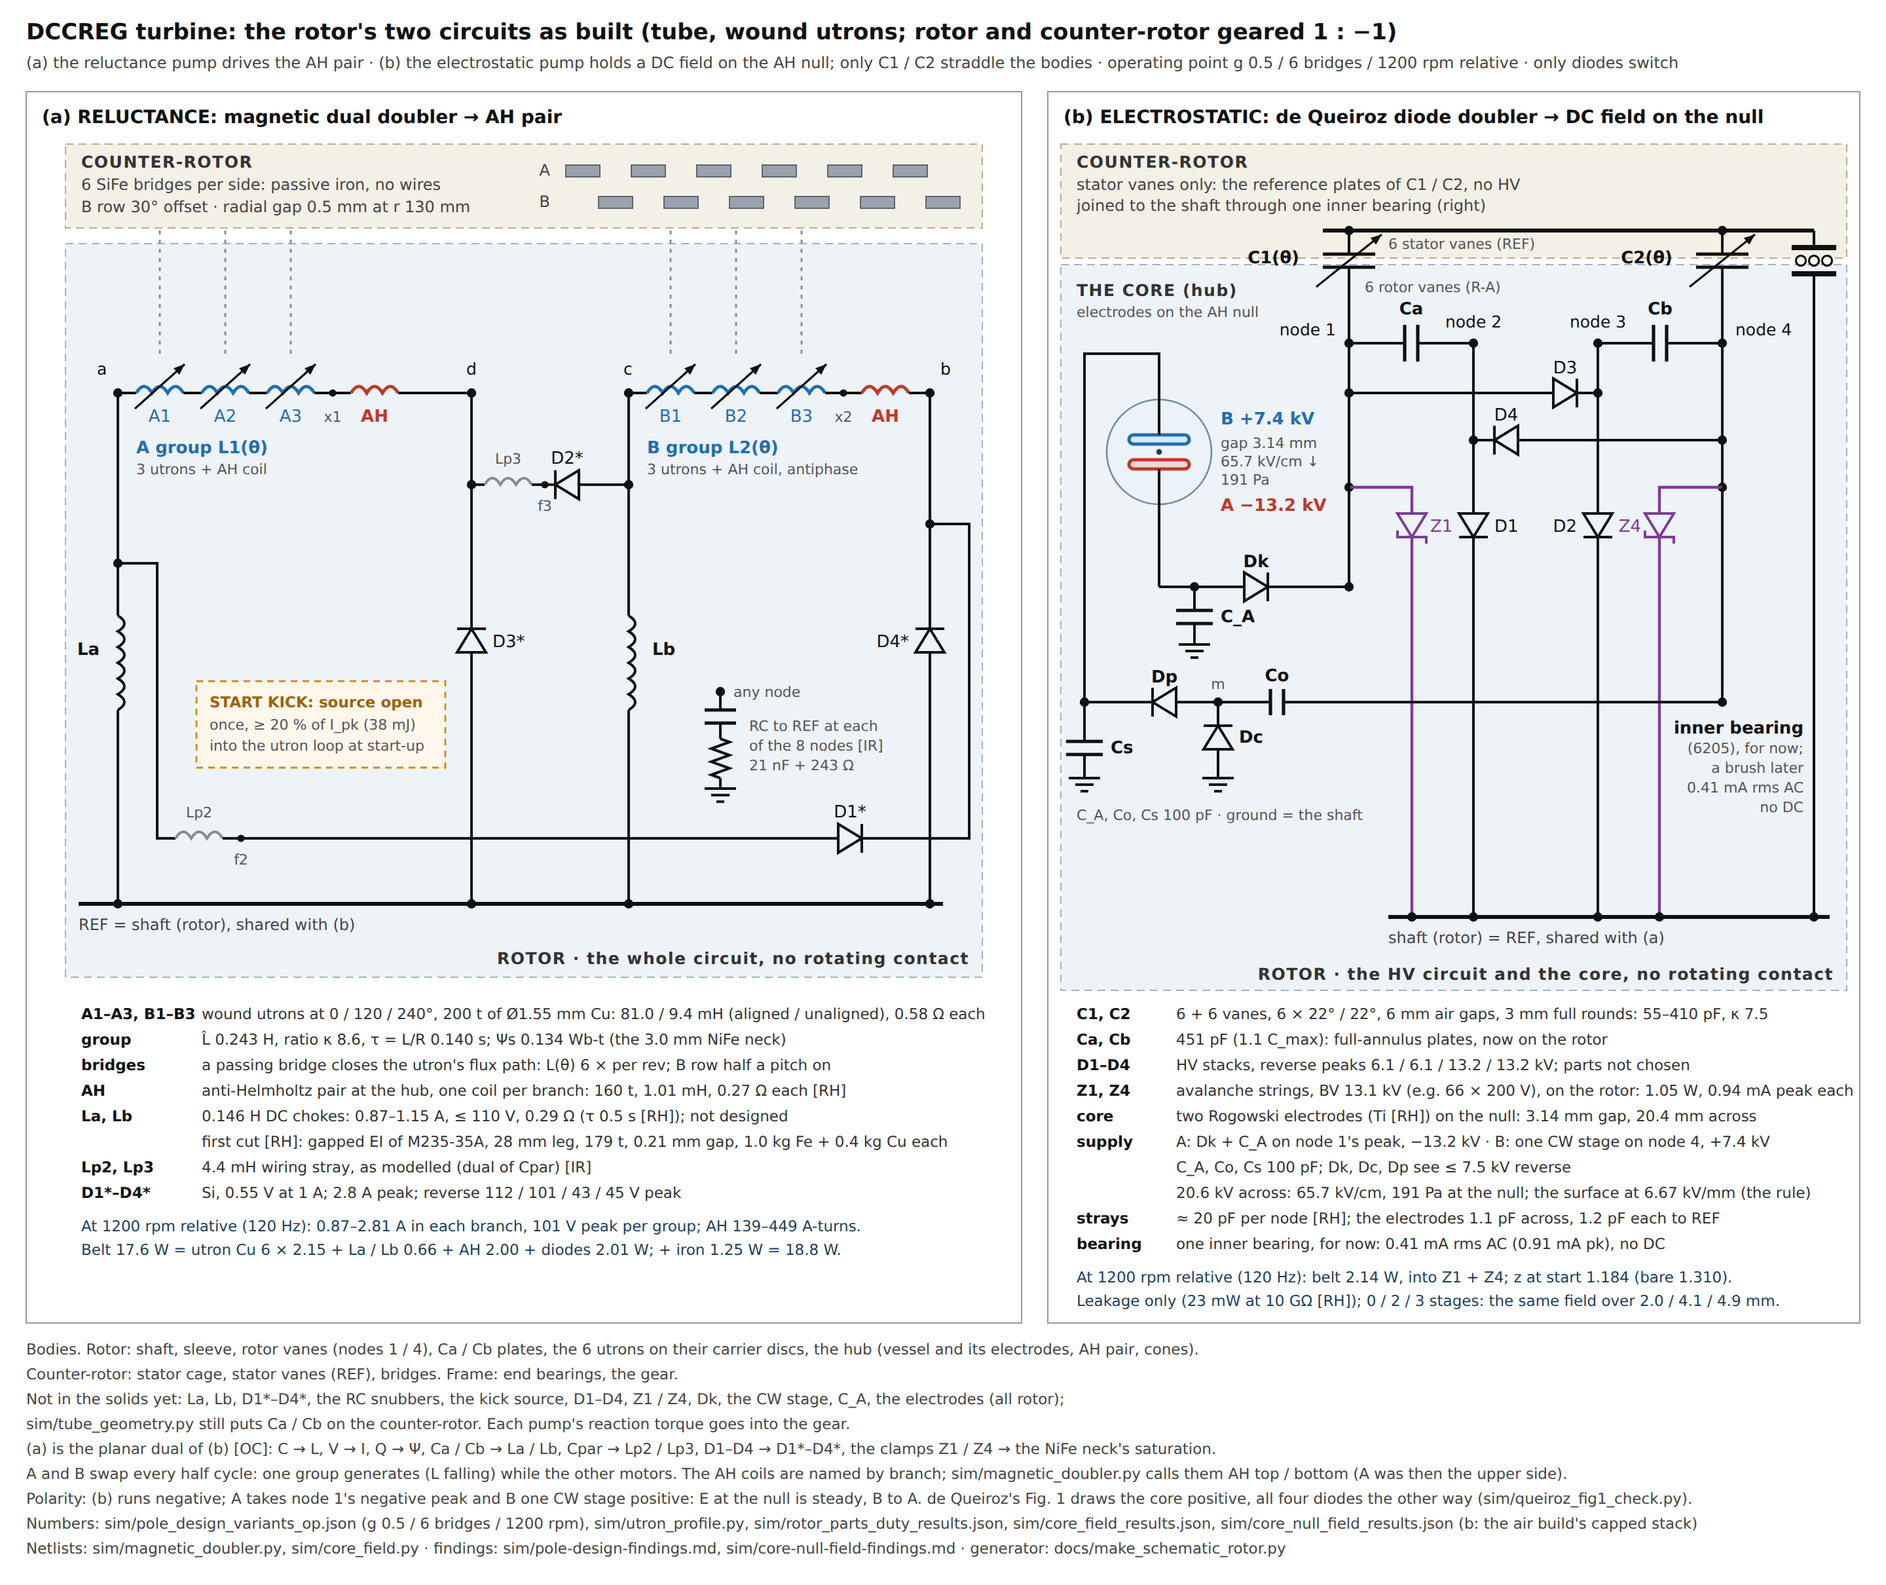
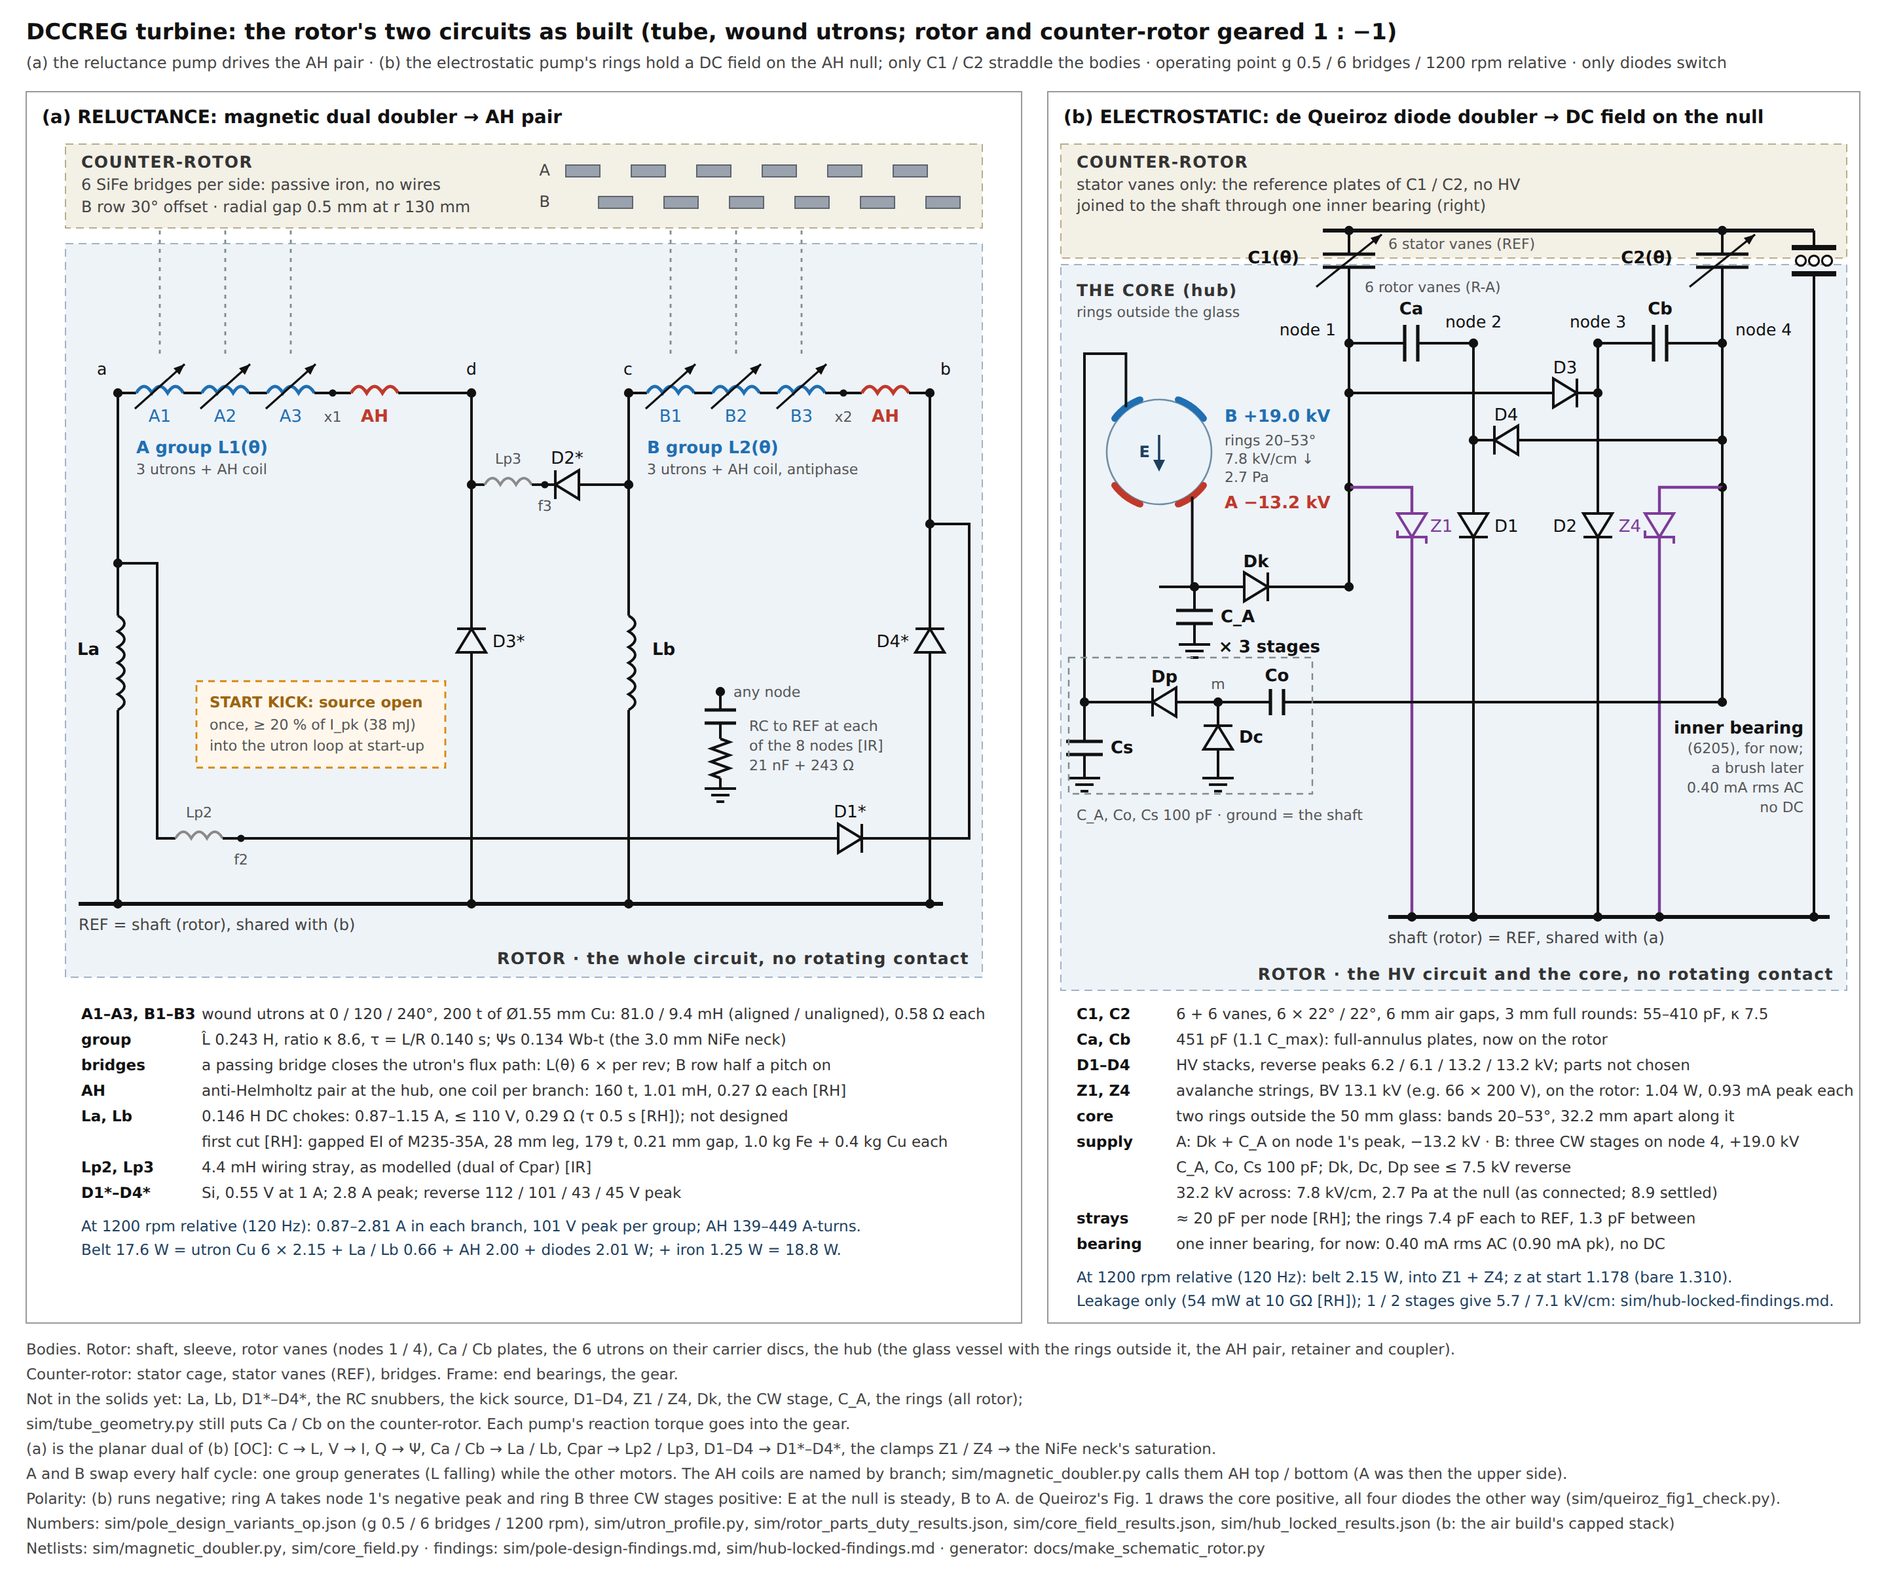
docs(schematic): panel (b) with the rings outside the glass
The core block draws the glass vessel with ring B (upper, +19.0 kV) and
ring A (lower, -13.2 kV) on its outline, Dk + C_A on node 1, and the
Cockcroft-Walton stage on node 4 marked x 3. The table and notes follow
the dc3 run and sim/hub_locked_results.json.

Claude-Session: https://claude.ai/code/session_019kWq1ZtzZgffamNAmjzqBU

diff --git a/docs/make_schematic_rotor.py b/docs/make_schematic_rotor.py
@@ -5,19 +5,21 @@
     counter-rotor's passive bridges make L(theta); no wire crosses between the bodies.
 (b) ELECTROSTATIC: the de Queiroz diode doubler with its HV side on the rotor (sim/core_field.py netlist; the air
     build's capped stack) -- C1 / C2 between the rotor vanes (nodes 1 / 4) and the counter-rotor's stator vanes, which
-    are the reference; Ca / Cb, D1-D4 and the clamps Z1 / Z4 on the rotor; two Rogowski electrodes in the vacuum on the
-    AH null, A peak-charged from node 1 through Dk and B on one Cockcroft-Walton stage on node 4, so the null sees a
-    steady field (sim/core-null-field-findings.md); the stator vanes joined to the shaft through one inner bearing for
-    now (a brush later).
+    are the reference; Ca / Cb, D1-D4 and the clamps Z1 / Z4 on the rotor; two rings outside the hub's glass vessel
+    (the designer's choice; presets/hub-locked.json), ring A peak-charged from node 1 through Dk and ring B on three
+    Cockcroft-Walton stages on node 4, so the AH null sees a steady field (sim/hub-locked-findings.md); the stator vanes
+    joined to the shaft through one inner bearing for now (a brush later).
 Values: sim/pole_design_variants_op.json (the pick), sim/utron_profile.py, sim/rotor_parts_duty_results.json (La / Lb,
-D1*-D4* at the pick), sim/core_field_results.json (the electrostatic pump, the supply and the link: 'dc1 0.1nF'),
-sim/core_null_field_results.json (the electrodes).
+D1*-D4* at the pick), sim/core_field_results.json (the electrostatic pump, the supply and the link: 'dc3 0.1nF'),
+sim/hub_locked_results.json (the rings).
 Usage: python3 docs/make_schematic_rotor.py   (the PNG needs playwright + chromium)
 """
 import json
 import math
 import os
 import sys
+
+import numpy as np
 
 HERE = os.path.dirname(os.path.abspath(__file__))
 ROOT = os.path.dirname(HERE)
@@ -26,7 +28,7 @@ import magnetic_doubler as MDm     # noqa: E402  (the dual's constants: AH rewin
 import utron_profile as U          # noqa: E402
 
 PICK = "g 0.5 / 6 bridges / 1200 rpm"
-SUPPLY = "dc1 0.1nF"                               # the null's supply of record (sim/core-null-field-findings.md)
+SUPPLY = "dc3 0.1nF"                               # the rings' supply of record (sim/hub-locked-findings.md)
 LA_RATIO, TAU_FIXED, AH_KEY = 0.6, 0.5, "r160"     # as sim/pole_design.size_op runs the pick
 OUT = os.path.join(HERE, "schematic-rotor-circuits")
 o = []
@@ -137,9 +139,9 @@ def numbers():
     duty = json.load(open(os.path.join(ROOT, "sim", "rotor_parts_duty_results.json")))
     cf = json.load(open(os.path.join(ROOT, "sim", "core_field_results.json")))
     cfr = {r["name"]: r for r in cf["rows"]}
-    nf = json.load(open(os.path.join(ROOT, "sim", "core_null_field_results.json")))
+    hl = json.load(open(os.path.join(ROOT, "sim", "hub_locked_results.json")))
     return dict(op=op, b=b, sp=sp, Lg=Lg, ah=ah, F=F, csn=csn, rsn=rsn, la=LA_RATIO * Lg, lp=MDm.R_PAR * Lg, duty=duty,
-                cf=cf, cfr=cfr, nf=nf, dc=cfr[SUPPLY], dc_free=cfr["free " + SUPPLY], null=nf["design"]["dc1"])
+                cf=cf, cfr=cfr, hl=hl, dc=cfr[SUPPLY], dc_free=cfr["free " + SUPPLY], ring=hl["record"])
 
 
 # ------------------------------------------------------------------------------------------------ (a) reluctance
@@ -251,15 +253,23 @@ def panel_a_table(ox, y, N):
 
 
 # ------------------------------------------------------------------------------------------------ (b) electrostatic
-def null_core(xc, yc, rv=40, hw=23, g=12, t=7):
-    """the vacuum vessel with the two electrodes on the AH null: B (upper) and A (lower), not to scale; the field
-    points down, from B (+) to A (-). Returns the vessel's top and bottom."""
+def ring_core(xc, yc, th0, th1, rv=40):
+    """the glass vessel with the two rings outside it: B on the upper hemisphere, A on the lower, each a band from th0
+    to th1 (deg from the axis), drawn on both sides of the section; E at the null points down, from B (+) to A (-).
+    Returns the points where B's and A's leads leave (the upper left and lower right bands' middles)."""
     o.append(f'<circle cx="{xc:.1f}" cy="{yc:.1f}" r="{rv:.1f}" class="glass"/>')
-    for y0, cl in ((yc - g / 2 - t, "cone_b"), (yc + g / 2, "cone_a")):
-        o.append(f'<rect x="{xc - hw:.1f}" y="{y0:.1f}" width="{2 * hw:.1f}" height="{t:.1f}" rx="3.5" class="{cl}"/>')
-    ln(xc, yc - g / 2 - t, xc, yc - rv, "w"); ln(xc, yc + g / 2 + t, xc, yc + rv, "w")          # the stems
-    o.append(f'<circle cx="{xc:.1f}" cy="{yc:.1f}" r="2.2" fill="#1d3f5e"/>')                   # the null
-    return yc - rv, yc + rv
+    for top, col in ((1, "#1f6fb2"), (-1, "#c0392b")):
+        for side in (-1, 1):
+            pts = [(xc + side * (rv + 2.5) * math.sin(math.radians(t)), yc - top * (rv + 2.5) * math.cos(math.radians(t)))
+                   for t in np.linspace(th0, th1, 24)]
+            o.append('<polyline points="' + " ".join(f"{x:.1f},{y:.1f}" for x, y in pts) +
+                     f'" fill="none" stroke="{col}" stroke-width="5" stroke-linecap="round"/>')
+    ln(xc, yc - 13, xc, yc + 6, "ef")
+    o.append(f'<polygon points="{xc:.1f},{yc + 15:.1f} {xc - 4.5:.1f},{yc + 6:.1f} {xc + 4.5:.1f},{yc + 6:.1f}" fill="#1d3f5e"/>')
+    tx(xc - 7, yc + 4, "E", "te", "end")
+    tm = math.radians(0.5 * (th0 + th1))
+    return ((xc - (rv + 2.5) * math.sin(tm), yc - (rv + 2.5) * math.cos(tm)),
+            (xc + (rv + 2.5) * math.sin(tm), yc + (rv + 2.5) * math.cos(tm)))
 
 
 def panel_b(ox, N):
@@ -304,22 +314,22 @@ def panel_b(ox, N):
     for x, xz, nm in ((x1, x1z, "Z1"), (x4, x4z, "Z4")):
         dot(x, y_z); pl([(x, y_z), (xz, y_z), (xz, 392)], "lim"); diode(xz, 392, "down", "#7d3c98", zener=True)
         ln(xz, 410, xz, y_sh, "lim"); tx(xz + (14 if x == x1 else -14), 406, nm, "tl", "start" if x == x1 else "end")
-    # the core: two electrodes in the vacuum on the AH null. A on node 1's negative peak (Dk, C_A); B on one
-    # Cockcroft-Walton stage on node 4's swing (Co, Dc, Dp, Cs); all storage 100 pF to the shaft
-    dc, nl = N["dc"], N["null"]
+    # the core: two rings outside the glass. A on node 1's negative peak (Dk, C_A); B on three Cockcroft-Walton stages
+    # on node 4's swing (Co, Dc, Dp, Cs each, drawn once); all storage 100 pF to the shaft
+    dc, nl = N["dc"], N["ring"]
     xk, yc, y_cw, xl = ox + 105, 345, 536, ox + 48
     ln(x1, y_n, x1, y_k); dot(x1, y_k)
     ln(x4, y_z, x4, y_cw); dot(x4, y_cw)
-    yt, ybm = null_core(xk, yc)
-    # A: the stem down to the Dk lead; C_A to the shaft
-    ln(xk, ybm, xk, y_k)
+    (xbl, ybl), (xar, yar) = ring_core(xk, yc, nl["theta_p"], nl["theta_e"])
+    # A: from the lower ring down to the Dk lead; C_A to the shaft
+    pl([(xar, yar), (xar, y_k), (xk, y_k)])
     ln(xk, y_k, ox + 170, y_k); diode(ox + 170, y_k, "right"); ln(ox + 188, y_k, x1, y_k)
     tx(ox + 179, y_k - 15, "Dk", "t", "middle", 'font-weight="bold"')
     dot(ox + 132, y_k); ln(ox + 132, y_k, ox + 132, y_k + 18); cap_v(ox + 132, y_k + 18, 14)
     ln(ox + 132, y_k + 28, ox + 132, y_k + 44); ground(ox + 132, y_k + 44)
     tx(ox + 152, y_k + 27, "C_A", "t", "start", 'font-weight="bold"')
-    # B: the stem up and round to the multiplier's output; Cs to the shaft
-    pl([(xk, yt), (xk, 270), (xl, 270), (xl, y_cw), (ox + 100, y_cw)])
+    # B: from the upper ring up and round to the multiplier's output; Cs to the shaft
+    pl([(xbl, ybl), (xbl, 270), (xl, 270), (xl, y_cw), (ox + 100, y_cw)])
     dot(xl, y_cw); ln(xl, y_cw, xl, y_cw + 30); cap_v(xl, y_cw + 30, 14); ln(xl, y_cw + 40, xl, y_cw + 58)
     ground(xl, y_cw + 58)
     tx(xl + 20, y_cw + 39, "Cs", "t", "start", 'font-weight="bold"')
@@ -331,14 +341,17 @@ def panel_b(ox, N):
     tx(ox + 166, y_cw + 31, "Dc", "t", "start", 'font-weight="bold"')
     ln(ox + 150, y_cw, ox + 190, y_cw); cap_h(ox + 190, y_cw, 10); ln(ox + 200, y_cw, x4, y_cw)   # Co: node 4 -> m
     tx(ox + 195, y_cw - 16, "Co", "t", "middle", 'font-weight="bold"')
+    o.append(f'<rect x="{ox + 36:.1f}" y="{y_cw - 34:.1f}" width="{ox + 222 - (ox + 36):.1f}" height="104" '
+             'fill="none" stroke="#7f8c8d" stroke-width="1.2" stroke-dasharray="5 4"/>')
+    tx(ox + 228, y_cw - 38, "× 3 stages", "t", "end", 'font-weight="bold"')
     tx(ox + 42, y_cw + 90, "C_A, Co, Cs 100 pF · ground = the shaft", "ms", "start")
-    tx(xk + 47, yc - 21, f"B +{nl['V_B_kV']:.1f} kV", "tu", "start", 'font-weight="bold"')
-    tx(xk + 47, yc - 3, f"gap {nl['g_min_mm']:.2f} mm", "ms")
-    tx(xk + 47, yc + 11, f"{nl['E0_kV_cm']:.1f} kV/cm ↓", "ms")
-    tx(xk + 47, yc + 25, f"{nl['p0_Pa']:.0f} Pa", "ms")
-    tx(xk + 47, yc + 45, f"A {kv(nl['V_A_kV'])} kV", "ta", "start", 'font-weight="bold"')
+    tx(xk + 50, yc - 23, f"B +{nl['V_B_kV']:.1f} kV", "tu", "start", 'font-weight="bold"')
+    tx(xk + 50, yc - 5, f"rings {nl['theta_p']:.0f}–{nl['theta_e']:.0f}°", "ms")
+    tx(xk + 50, yc + 9, f"{nl['E_dc_kV_cm']:.1f} kV/cm ↓", "ms")
+    tx(xk + 50, yc + 23, f"{nl['p_dc_Pa']:.1f} Pa", "ms")
+    tx(xk + 50, yc + 43, f"A {kv(nl['V_A_kV'])} kV", "ta", "start", 'font-weight="bold"')
     tx(ox + 42, 226, "THE CORE (hub)", "zh")
-    tx(ox + 42, 242, "electrodes on the AH null", "ms")
+    tx(ox + 42, 242, "rings outside the glass", "ms")
     # the one rotating contact: an inner bearing (outer ring on the counter-rotor, inner ring on the shaft)
     ln(xb, y_s, xb, y_bd - 10)
     ln(xb - 17, y_bd - 10, xb + 17, y_bd - 10, "ring"); ln(xb - 17, y_bd + 10, xb + 17, y_bd + 10, "ring")
@@ -358,7 +371,7 @@ def panel_b(ox, N):
 
 def panel_b_table(ox, y, N):
     d, cf, R = N["cf"]["design"], N["cf"], N["cfr"]
-    fs, nl = N["dc"], N["null"]
+    fs, nl = N["dc"], N["ring"]
     vr = fs["VR_pk_kV"]
     zs = N["duty"]["clamp_string"]
     n_z = math.ceil(d["V_op_kV"] * 1e3 / zs["V_Z"])
@@ -371,24 +384,26 @@ def panel_b_table(ox, y, N):
                   "parts not chosen"),
         ("Z1, Z4", f"avalanche strings, BV {d['V_op_kV']:.1f} kV (e.g. {n_z} × {zs['V_Z']:.0f} V), on the rotor: "
                    f"{fs['Z1']['P_W']:.2f} W, {fs['Z1']['I_pk_mA']:.2f} mA peak each"),
-        ("core", f"two Rogowski electrodes (Ti [RH]) on the null: {nl['g_min_mm']:.2f} mm gap, "
-                 f"{2 * nl['R_max_mm']:.1f} mm across"),
-        ("supply", f"A: Dk + C_A on node 1's peak, {kv(nl['V_A_kV'])} kV · B: one CW stage on node 4, "
+        ("core", f"two rings outside the 50 mm glass: bands {nl['theta_p']:.0f}–{nl['theta_e']:.0f}°, "
+                 f"{nl['gap_mm']:.1f} mm apart along it"),
+        ("supply", f"A: Dk + C_A on node 1's peak, {kv(nl['V_A_kV'])} kV · B: three CW stages on node 4, "
                    f"+{nl['V_B_kV']:.1f} kV"),
-        ("", f"C_A, Co, Cs 100 pF; Dk, Dc, Dp see ≤ {max(vr['Dk'], vr['Dc1'], vr['Dp1']):.1f} kV reverse"),
-        ("", f"{nl['V_gap_kV']:.1f} kV across: {nl['E0_kV_cm']:.1f} kV/cm, {nl['p0_Pa']:.0f} Pa at the null; the "
-             f"surface at {N['nf']['E_op_kV_mm']:.2f} kV/mm (the rule)"),
-        ("strays", f"≈ {cf['CPAR_pF']:.0f} pF per node [RH]; the electrodes {nl['C_gap_pF']:.1f} pF across, "
-                   f"{nl['C_A_ref_pF']:.1f} pF each to REF"),
+        ("", f"C_A, Co, Cs 100 pF; Dk, Dc, Dp see ≤ "
+             f"{max(v for k, v in vr.items() if k[:2] in ('Dk', 'Dc', 'Dp')):.1f} kV reverse"),
+        ("", f"{nl['V_gap_kV']:.1f} kV across: {nl['E_dc_kV_cm']:.1f} kV/cm, {nl['p_dc_Pa']:.1f} Pa at the null "
+             f"(as connected; {nl['E_settled_kV_cm']:.1f} settled)"),
+        ("strays", f"≈ {cf['CPAR_pF']:.0f} pF per node [RH]; the rings {nl['C_ring_ref_pF']:.1f} pF each to REF, "
+                   f"{nl['C_ring_ring_pF']:.1f} pF between"),
         ("bearing", f"one inner bearing, for now: {fs['link']['I_rms_mA']:.2f} mA rms AC "
                     f"({fs['link']['I_pk_mA']:.2f} mA pk), no DC"),
     ]
     y = table(ox + 42, y, rows, w_key=76)
-    D = N["nf"]["design"]
+    ex = {x["supply"]: x for x in N["hl"]["exact"]}
     tx(ox + 42, y + 6, f"At {cf['rpm_rel']:.0f} rpm relative ({cf['F_Hz']:.0f} Hz): belt {fs['P_belt_W']:.2f} W, into "
                        f"Z1 + Z4; z at start {N['dc_free']['z']:.3f} (bare {R['free none']['z']:.3f}).", "op")
-    tx(ox + 42, y + 24, f"Leakage only ({1e3 * fs['P_leak_W']:.0f} mW at 10 GΩ [RH]); 0 / 2 / 3 stages: the same field over "
-                        f"{D['dc0']['g_min_mm']:.1f} / {D['dc2']['g_min_mm']:.1f} / {D['dc3']['g_min_mm']:.1f} mm.", "op")
+    tx(ox + 42, y + 24, f"Leakage only ({1e3 * fs['P_leak_W']:.0f} mW at 10 GΩ [RH]); 1 / 2 stages give "
+                        f"{ex['dc1']['E_dc_kV_cm']:.1f} / {ex['dc2']['E_dc_kV_cm']:.1f} kV/cm: sim/hub-locked-findings.md.",
+       "op")
 
 
 # ------------------------------------------------------------------------------------------------ sheet
@@ -418,7 +433,7 @@ def main():
   </style>""")
     b = N["b"]
     tx(20, 30, "DCCREG turbine: the rotor's two circuits as built (tube, wound utrons; rotor and counter-rotor geared 1 : −1)", "h")
-    tx(20, 52, f"(a) the reluctance pump drives the AH pair · (b) the electrostatic pump holds a DC field on the AH null; only C1 / C2 "
+    tx(20, 52, f"(a) the reluctance pump drives the AH pair · (b) the electrostatic pump's rings hold a DC field on the AH null; only C1 / C2 "
                f"straddle the bodies · operating point {PICK} relative · only diodes switch", "m")
     for ox, w, title in ((20, 760, "(a) RELUCTANCE: magnetic dual doubler → AH pair"),
                          (800, 620, "(b) ELECTROSTATIC: de Queiroz diode doubler → DC field on the null")):
@@ -430,21 +445,21 @@ def main():
     panel_b_table(780, 778, N)
     notes = [
         "Bodies. Rotor: shaft, sleeve, rotor vanes (nodes 1 / 4), Ca / Cb plates, the 6 utrons on their carrier discs, the hub "
-        "(vessel and its electrodes, AH pair, cones).",
+        "(the glass vessel with the rings outside it, the AH pair, retainer and coupler).",
         "Counter-rotor: stator cage, stator vanes (REF), bridges. Frame: end bearings, the gear.",
         "Not in the solids yet: La, Lb, D1*–D4*, the RC snubbers, the kick source, D1–D4, Z1 / Z4, Dk, the CW stage, "
-        "C_A, the electrodes (all rotor);",
+        "C_A, the rings (all rotor);",
         "sim/tube_geometry.py still puts Ca / Cb on the counter-rotor. Each pump's reaction torque goes into the gear.",
         "(a) is the planar dual of (b) [OC]: C → L, V → I, Q → Ψ, Ca / Cb → La / Lb, Cpar → Lp2 / Lp3, D1–D4 → D1*–D4*, "
         "the clamps Z1 / Z4 → the NiFe neck's saturation.",
         "A and B swap every half cycle: one group generates (L falling) while the other motors. The AH coils are named by branch; "
         "sim/magnetic_doubler.py calls them AH top / bottom (A was then the upper side).",
-        "Polarity: (b) runs negative; A takes node 1's negative peak and B one CW stage positive: E at the null is steady, "
-        "B to A. de Queiroz's Fig. 1 "
+        "Polarity: (b) runs negative; ring A takes node 1's negative peak and ring B three CW stages positive: E at the null "
+        "is steady, B to A. de Queiroz's Fig. 1 "
         "draws the core positive, all four diodes the other way (sim/queiroz_fig1_check.py).",
         f"Numbers: sim/pole_design_variants_op.json ({PICK}), sim/utron_profile.py, sim/rotor_parts_duty_results.json, "
-        "sim/core_field_results.json, sim/core_null_field_results.json (b: the air build's capped stack)",
-        "Netlists: sim/magnetic_doubler.py, sim/core_field.py · findings: sim/pole-design-findings.md, sim/core-null-field-findings.md "
+        "sim/core_field_results.json, sim/hub_locked_results.json (b: the air build's capped stack)",
+        "Netlists: sim/magnetic_doubler.py, sim/core_field.py · findings: sim/pole-design-findings.md, sim/hub-locked-findings.md "
         "· generator: docs/make_schematic_rotor.py",
     ]
     y = 1034
